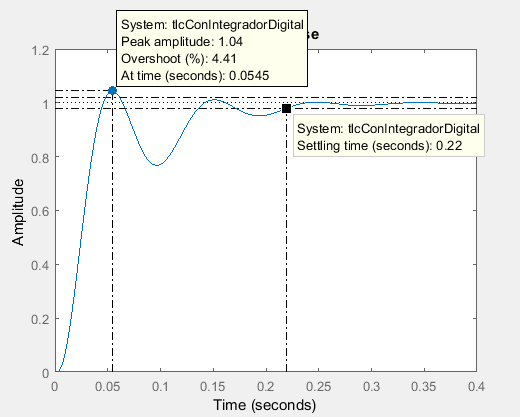
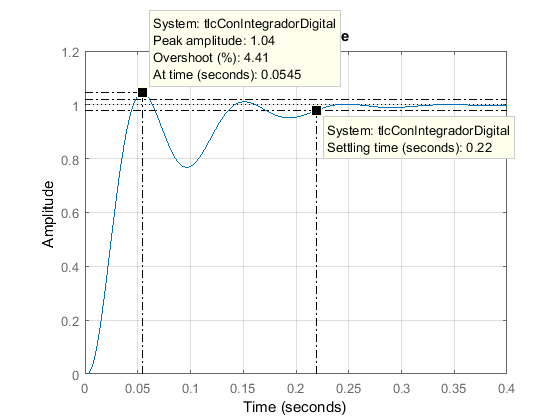
Cambio compnensador digital

diff --git a/Informe final/Proyecto Levitador LaTeX/Informe/7-ImplementacionDigital/ImplementacionDigital.tex b/Informe final/Proyecto Levitador LaTeX/Informe/7-ImplementacionDigital/ImplementacionDigital.tex
@@ -543,7 +543,7 @@
 
 \begin{figure}[H]
 	\centering
-	\includegraphics[scale=0.8]{Respuesta-al-escalon-con-k-1-M-30.png}
+	\includegraphics[scale=0.85]{Respuesta-al-escalon-con-k-1-M-30.png}
 	\caption{Respuesta al escalón con integrador con $K_{int}$ =1 y M=30 Kg.}
 	\label{fig:respuesta-al-escalon-con-k-1-M-30}
 \end{figure}
@@ -553,7 +553,7 @@
 
 \begin{figure}[H]
 	\centering
-	\includegraphics[scale=0.7]{Respuesta-al-escalon-con-k-20-M-30.png}
+	\includegraphics[scale=0.85]{Respuesta-al-escalon-con-k-20-M-30.png}
 	\caption{Respuesta al escalón con integrador para $K_{int}$ =20 y M = 30 Kg.}
 	\label{fig:respuesta-al-escalon-con-k-20-M-30}
 \end{figure}
@@ -565,7 +565,7 @@
 
 \begin{figure}[H]
 	\centering
-	\includegraphics[scale=0.8]{Respuesta-al-escalon-con-k-20-M-1.png}
+	\includegraphics[scale=0.85]{Respuesta-al-escalon-con-k-20-M-1.png}
 	\caption{Respuesta al escalón con integrador para $K_{int}$ =20 y M = 1 Kg.}
 	\label{fig:respuesta-al-escalon-con-k-20-M-1}
 \end{figure}
